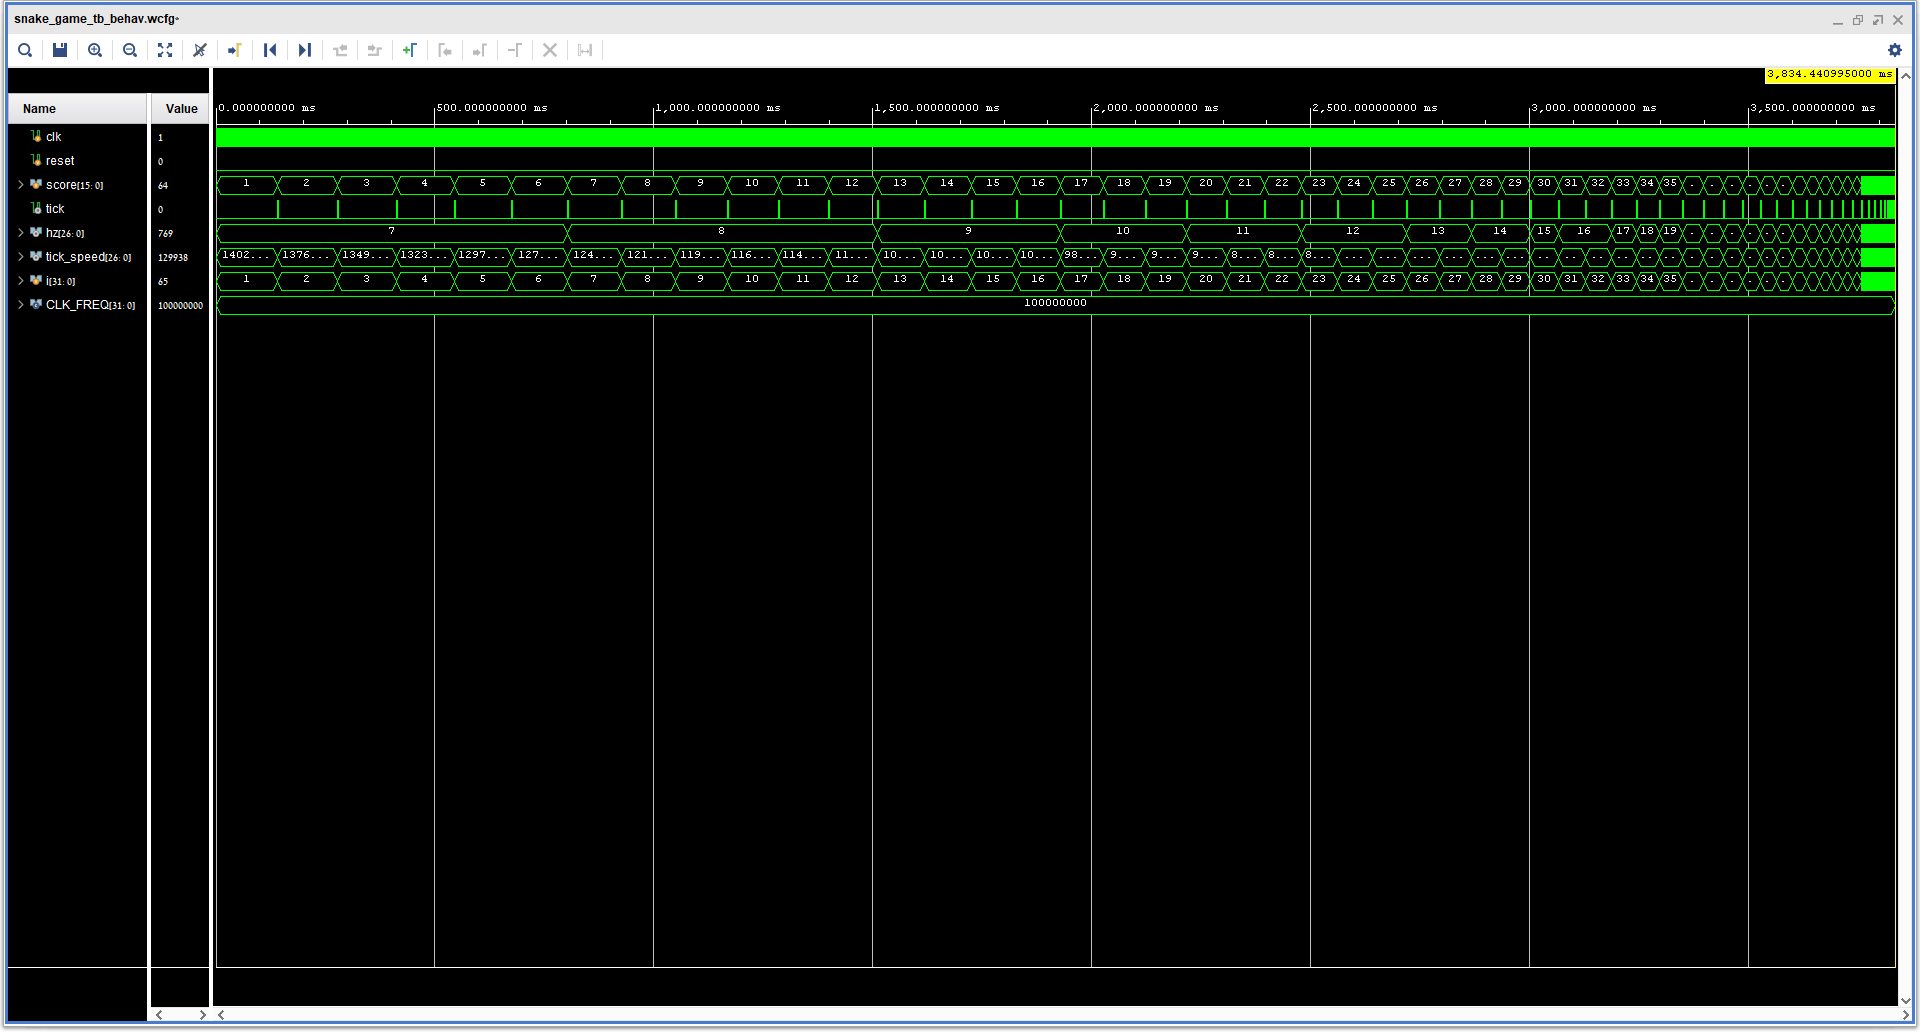
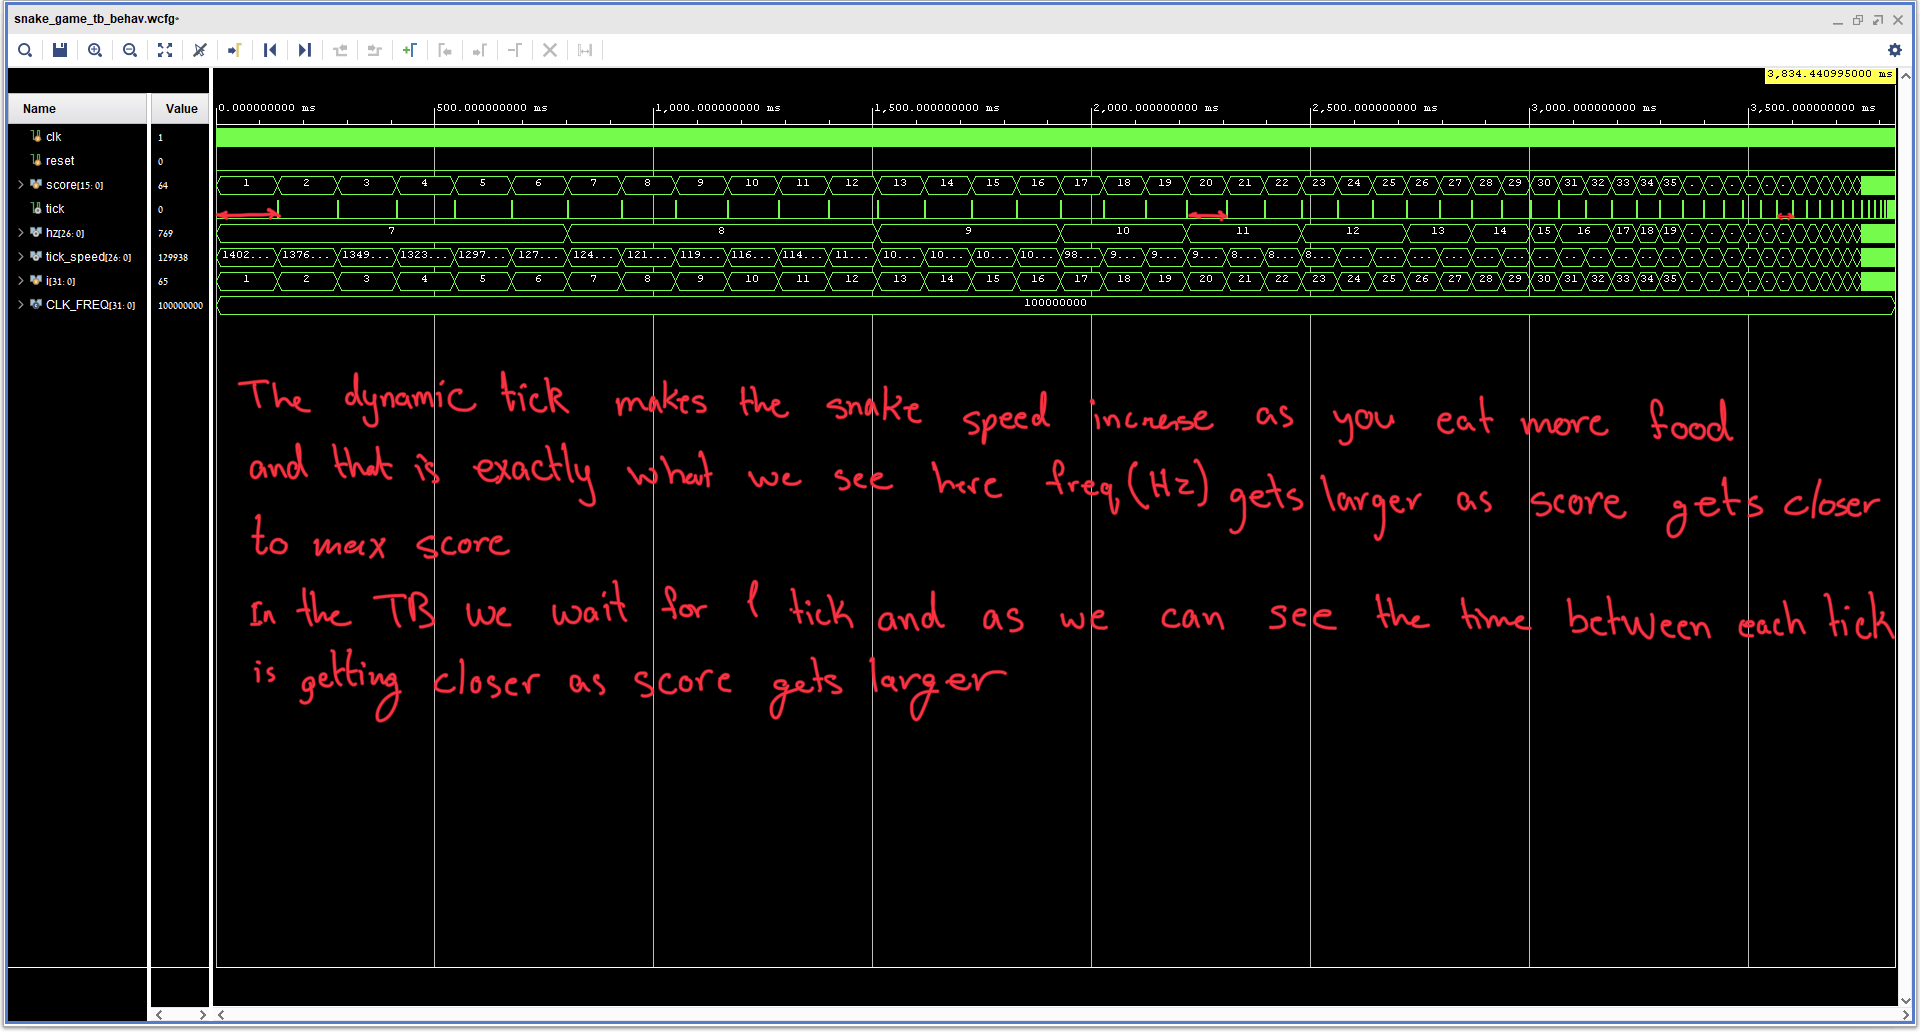
farmer tex

diff --git a/LAB_07/LaTeX/report.tex b/LAB_07/LaTeX/report.tex
@@ -11,7 +11,7 @@
 % =====================================================================
 \documentclass[11pt,a4paper]{article}
 
-\newcommand{\IDone}{\texttt{[ID1]}}   % <-- Saleh Khalil, ID
+\newcommand{\IDone}{\texttt{[213310485]}}   % <-- Saleh Khalil, ID
 \newcommand{\IDtwo}{\texttt{[ID2]}}   % <-- Mahmood Isteteh, ID
 \newcommand{\youtubelink}{https://youtu.be/REPLACE-ME}  % <-- paste your YouTube demo URL here
 
@@ -339,24 +339,43 @@ are covered in the next subsection.
 \subsection{\texttt{snake\_game\_tb.v} -- integration testbench}
 
 \begin{itemize}
-  \item \textbf{Scenario 1 -- crash without eating.} The snake drives
+  \item \textbf{Scenario 1 - crash without eating} The snake drives
     straight into a wall without eating any food. The FSM transitions
     correctly (IDLE $\rightarrow$ PLAY $\rightarrow$ GAME\_OVER) and the
     length stays at 1 throughout.
-  \placeholderbox{5.2cm}{Annotated waveform of \texttt{snake\_game\_tb}
-    Scenario 1: \texttt{keyPressed} pulses, \texttt{dir} changes,
-    \texttt{tick} strobes, head coordinates advancing straight into a
-    wall, \texttt{crash} rising, and the \texttt{state} transition to
-    GAME\_OVER with \texttt{length} fixed at 1.}
-  \item \textbf{Scenario 2 -- eat then crash.} The snake eats one food
+
+    \begin{figure}[H]
+  \centering
+  \includegraphics[width=\textwidth]{gm_tb_scenario_1.png}
+  \caption{Scenario 1 - crash without eating}
+  \label{fig:hier-io}
+\end{figure}
+
+
+  % \placeholderbox{5.2cm}{Annotated waveform of \texttt{snake\_game\_tb}
+  %   Scenario 1: \texttt{keyPressed} pulses, \texttt{dir} changes,
+  %   \texttt{tick} strobes, head coordinates advancing straight into a
+  %   wall, \texttt{crash} rising, and the \texttt{state} transition to
+  %   GAME\_OVER with \texttt{length} fixed at 1.}
+  \item \textbf{Scenario 2 - eat then crash} The snake eats one food
     item, growing to length 2 and confirming that \texttt{snake.v}'s
     growth logic works, then crashes into a wall.
-  \placeholderbox{5.2cm}{Annotated waveform of \texttt{snake\_game\_tb}
-    Scenario 2: \texttt{keyPressed} pulses, \texttt{dir} changes,
-    \texttt{tick} strobes, the food being eaten and \texttt{length}
-    incrementing to 2, head coordinates advancing into a wall,
-    \texttt{crash} rising, and the \texttt{state} transition to
-    GAME\_OVER.}
+
+
+        \begin{figure}[H]
+  \centering
+  \includegraphics[width=\textwidth]{gm_tb_scenario_2.png}
+  \caption{Scenario 2 - eat then crash}
+  \label{fig:hier-io}
+\end{figure}
+
+    
+  % \placeholderbox{5.2cm}{Annotated waveform of \texttt{snake\_game\_tb}
+  %   Scenario 2: \texttt{keyPressed} pulses, \texttt{dir} changes,
+  %   \texttt{tick} strobes, the food being eaten and \texttt{length}
+  %   incrementing to 2, head coordinates advancing into a wall,
+  %   \texttt{crash} rising, and the \texttt{state} transition to
+  %   GAME\_OVER.}
 \end{itemize}
 
 
@@ -456,7 +475,7 @@ are covered in the next subsection.
 % accordingly; a reversal attempt is visible as an ignored key.
 
 % =====================================================================
-\section{Game Logic Block}
+\section{Internal Game Logic}
 % =====================================================================
 \begin{figure}[H]
   \centering
@@ -464,10 +483,10 @@ are covered in the next subsection.
   \caption{Internal logic modules highlighted.}
   \label{fig:hier-internal}
 \end{figure}
-\placeholderbox{5cm}{Game-logic block highlighted: the snake core, its food
-generator and the food-coverage testbench.}
+% \placeholderbox{5cm}{Game-logic block highlighted: the snake core, its food
+% generator and the food-coverage testbench.}
 
-\subsection{\texttt{snake.v} -- the game core}
+\subsection{\texttt{snake.v} - the game core}
 \textbf{Purpose.} Owns the snake body, movement, growth, collision
 detection and score.
 
@@ -511,28 +530,23 @@ is latched into \texttt{plant\_x/plant\_y} only when the food is eaten
 prints head position and length so the shift behaviour is directly
 observable.
 
-\subsection{\texttt{farmer.v} -- food generator}
-\textbf{Purpose.} Proposes pseudo-random food coordinates.
-
-\textbf{Internal design.} A 16-bit Fibonacci LFSR (taps 15, 13, 12, 10,
-seed \texttt{0xABCD}) shifts every clock; the keyboard strobe
-\texttt{keyPressed} is XOR-ed into the feedback as a source of true
-user-driven entropy. The outputs are
+\subsection{\texttt{farmer.v} - food generator}
+\textbf{Purpose} This module serves as a pseudo-random food coordinates generator for the food position on the board (\texttt{food\_x}, \texttt{food\_y}). \\
+\textbf{Internal design} It holds a 16-bit shift register 
+that shifts left every clock (\texttt{100 MHz clk}), and the LSB becomes the \texttt{Xor} of the \texttt{lfsr[15], lfsr[13], lfsr[12], lfsr[10], keyPressed}
+the Farmer generates output that looks random but it raility is fully deterministic so we choose to make the shift every clock and use the \texttt{keyPressed} as an entropy source to make the output less predictable. The food coordinates are computed as follows:
 $\texttt{food\_x} = \texttt{lfsr}[6{:}0] \bmod \texttt{GRID\_X}$ and
 $\texttt{food\_y} = \texttt{lfsr}[13{:}7] \bmod \texttt{GRID\_Y}$.
-Since the LFSR runs at 100\,MHz, the value latched by \texttt{snake} at
-eat time is effectively random with respect to the game timescale.
 
-\textbf{Verification -- \texttt{farmer\_tb.v} and coverage.} The unit
-testbench clocks the LFSR $15{,}000$ times ($\approx 2$ proposals per
+
+\textbf{Verification} The 
+testbench clocks the shift register $15{,}000$ times ($\approx 2$ proposals per
 grid cell), toggles \texttt{keyPressed} randomly ($\approx 1\%$ of
-clocks) and records every proposed coordinate. Figure~\ref{fig:coverage}
-shows the resulting coverage of the $100\times75$ grid: green cells were
-proposed at least once, dark cells never.
+clocks) and records every proposed coordinate. 
 
 \begin{figure}[H]
   \centering
-  \includegraphics[width=0.8\textwidth]{food_coverage.png}
+  \includegraphics[width=0.8\textwidth]{farmer_wavefrom.png}
   \caption{Food-placement coverage recorded by \texttt{farmer\_tb}
   ($15{,}000$ samples on the $100\times75$ grid; green = proposed at
   least once, dark = never proposed).}
@@ -545,6 +559,21 @@ The map also makes the \emph{modulo bias} of the generator visible: as
 likewise rows 0--52 for \texttt{food\_y} (mod 75). Every cell of the
 grid is reachable, and the bias is invisible during play, so this was
 accepted as a good trade-off for such a cheap generator.
+
+
+\textbf{Coverage} 
+Figure~\ref{fig:coverage}
+shows the resulting coverage of the $100\times75$ grid: green cells were
+proposed at least once, dark cells never(we have achived $\approx 81\%$  coverage) so we can confidently say that the farmer is good enogh to generate food coordinates.
+
+\begin{figure}[H]
+  \centering
+  \includegraphics[width=0.8\textwidth]{food_coverage.png}
+  \caption{Food-placement coverage recorded by \texttt{farmer\_tb}
+  ($15{,}000$ samples on the $100\times75$ grid; green = proposed at
+  least once, dark = never proposed).}
+  \label{fig:coverage}
+\end{figure}
 
 % =====================================================================
 \section{Timing Block}